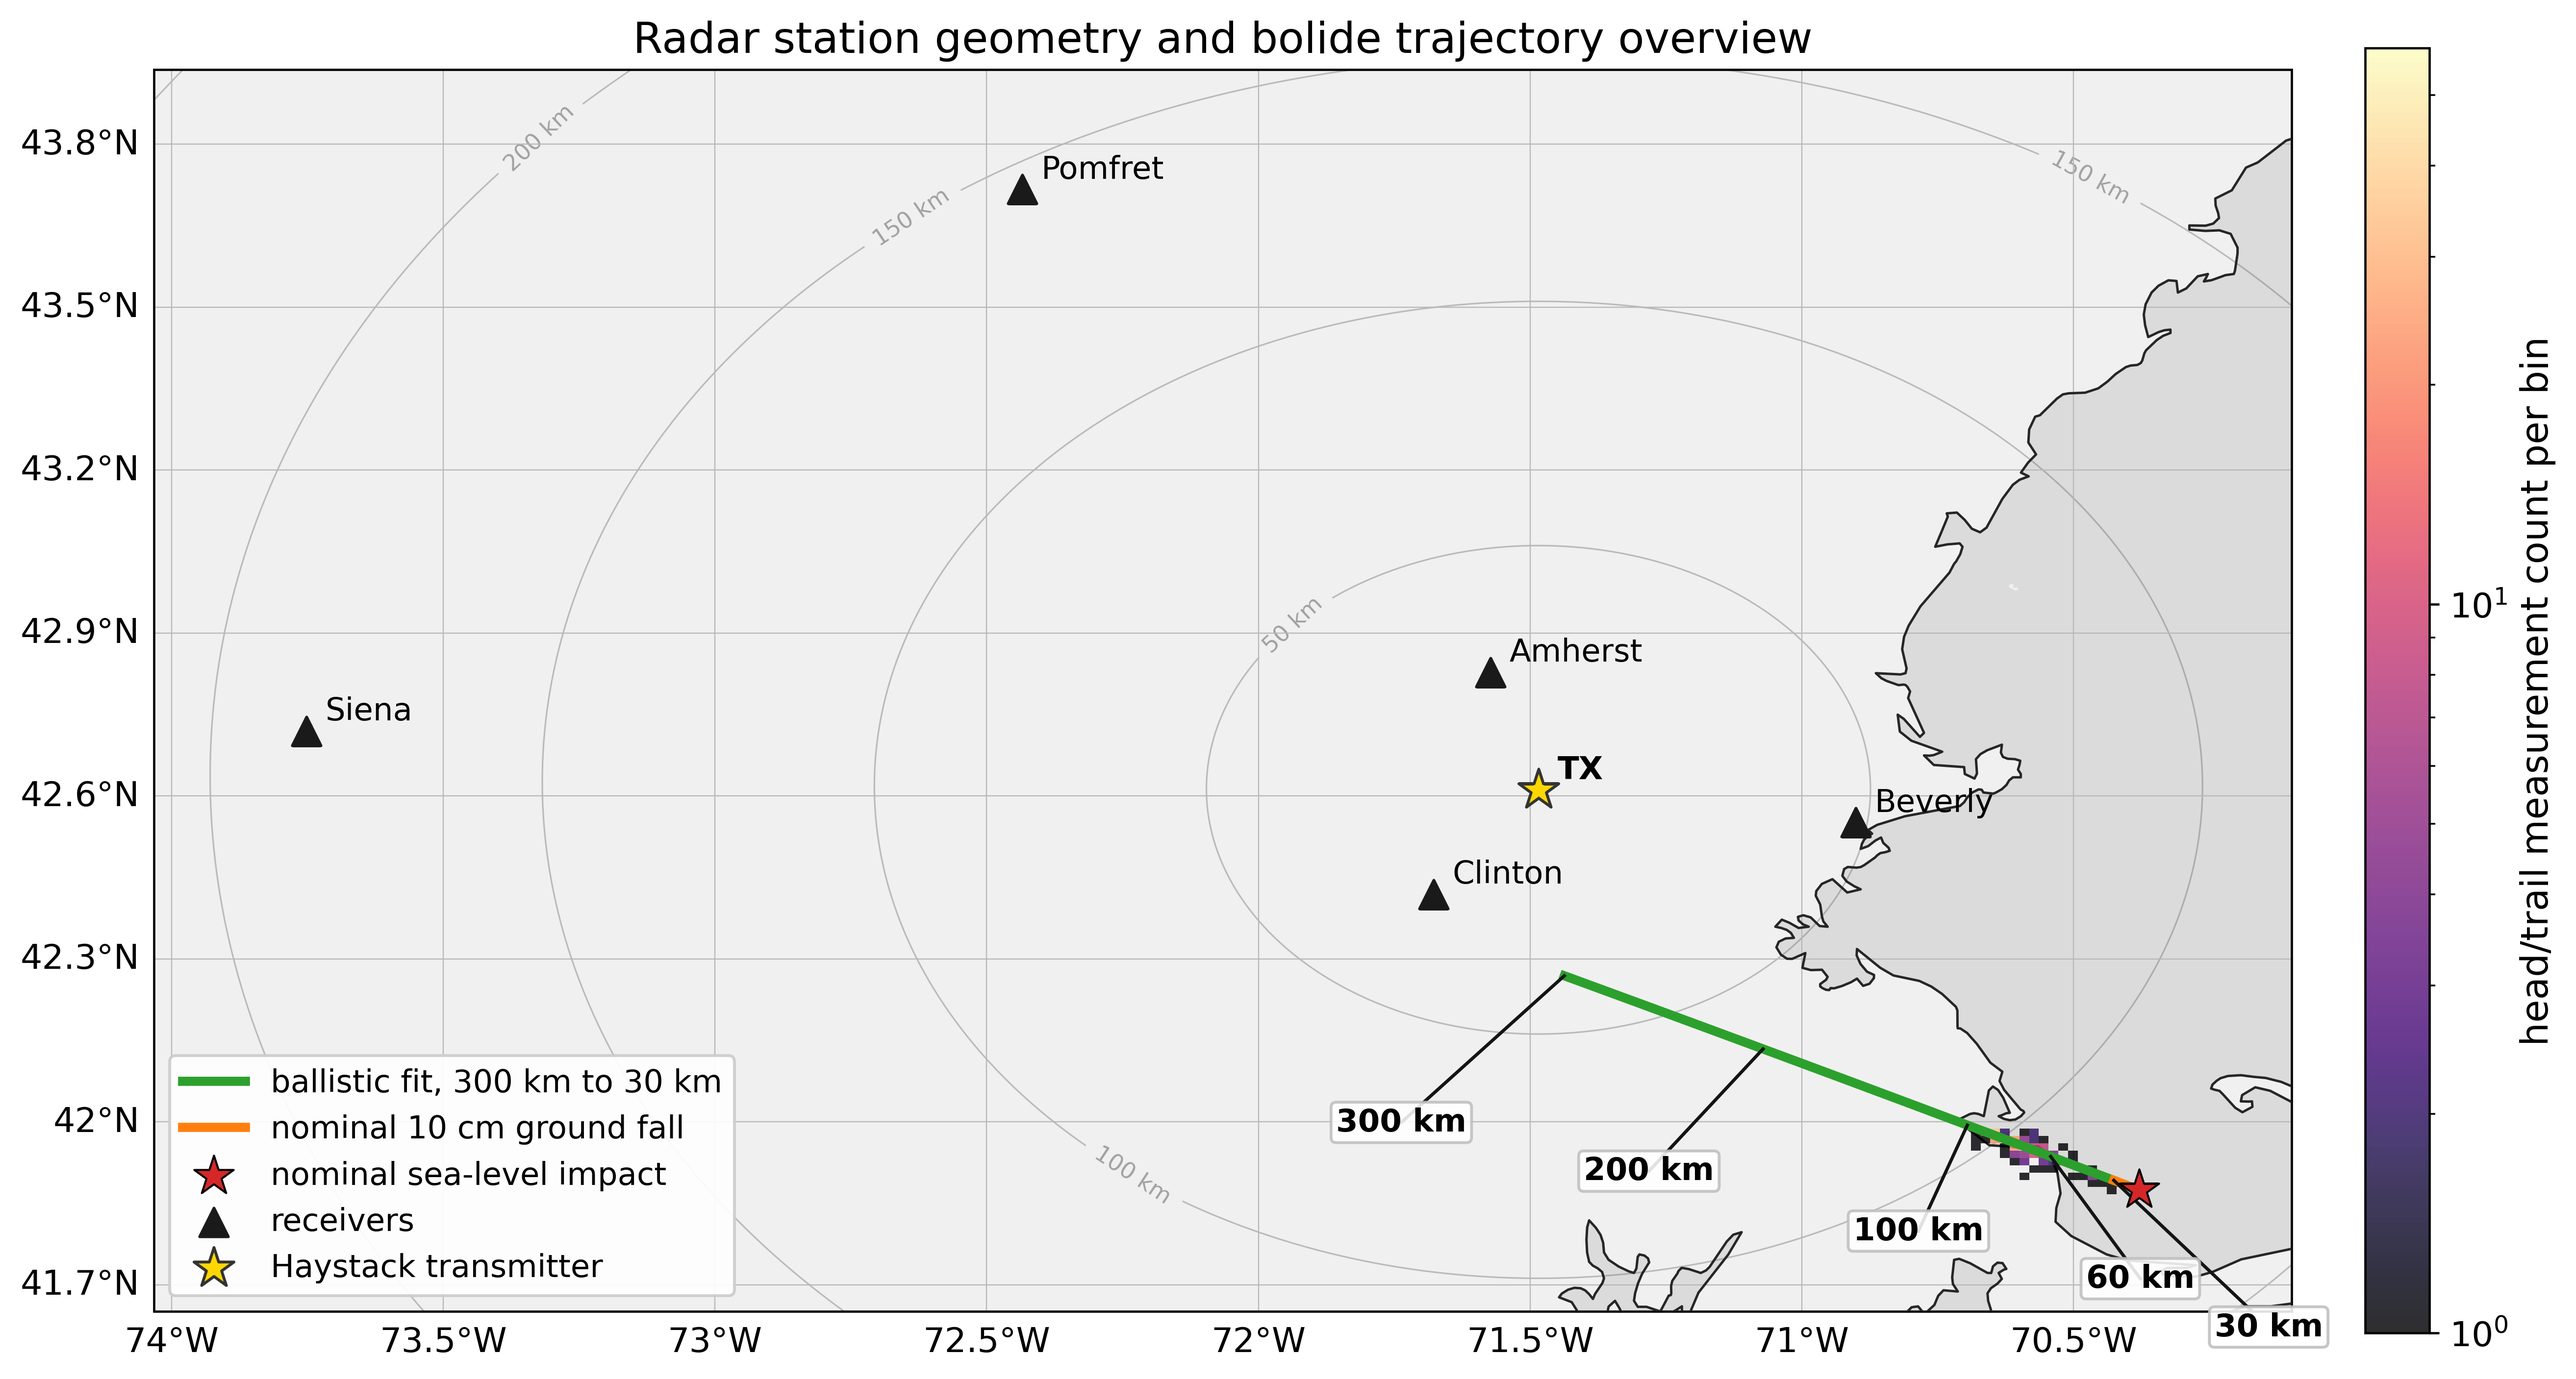
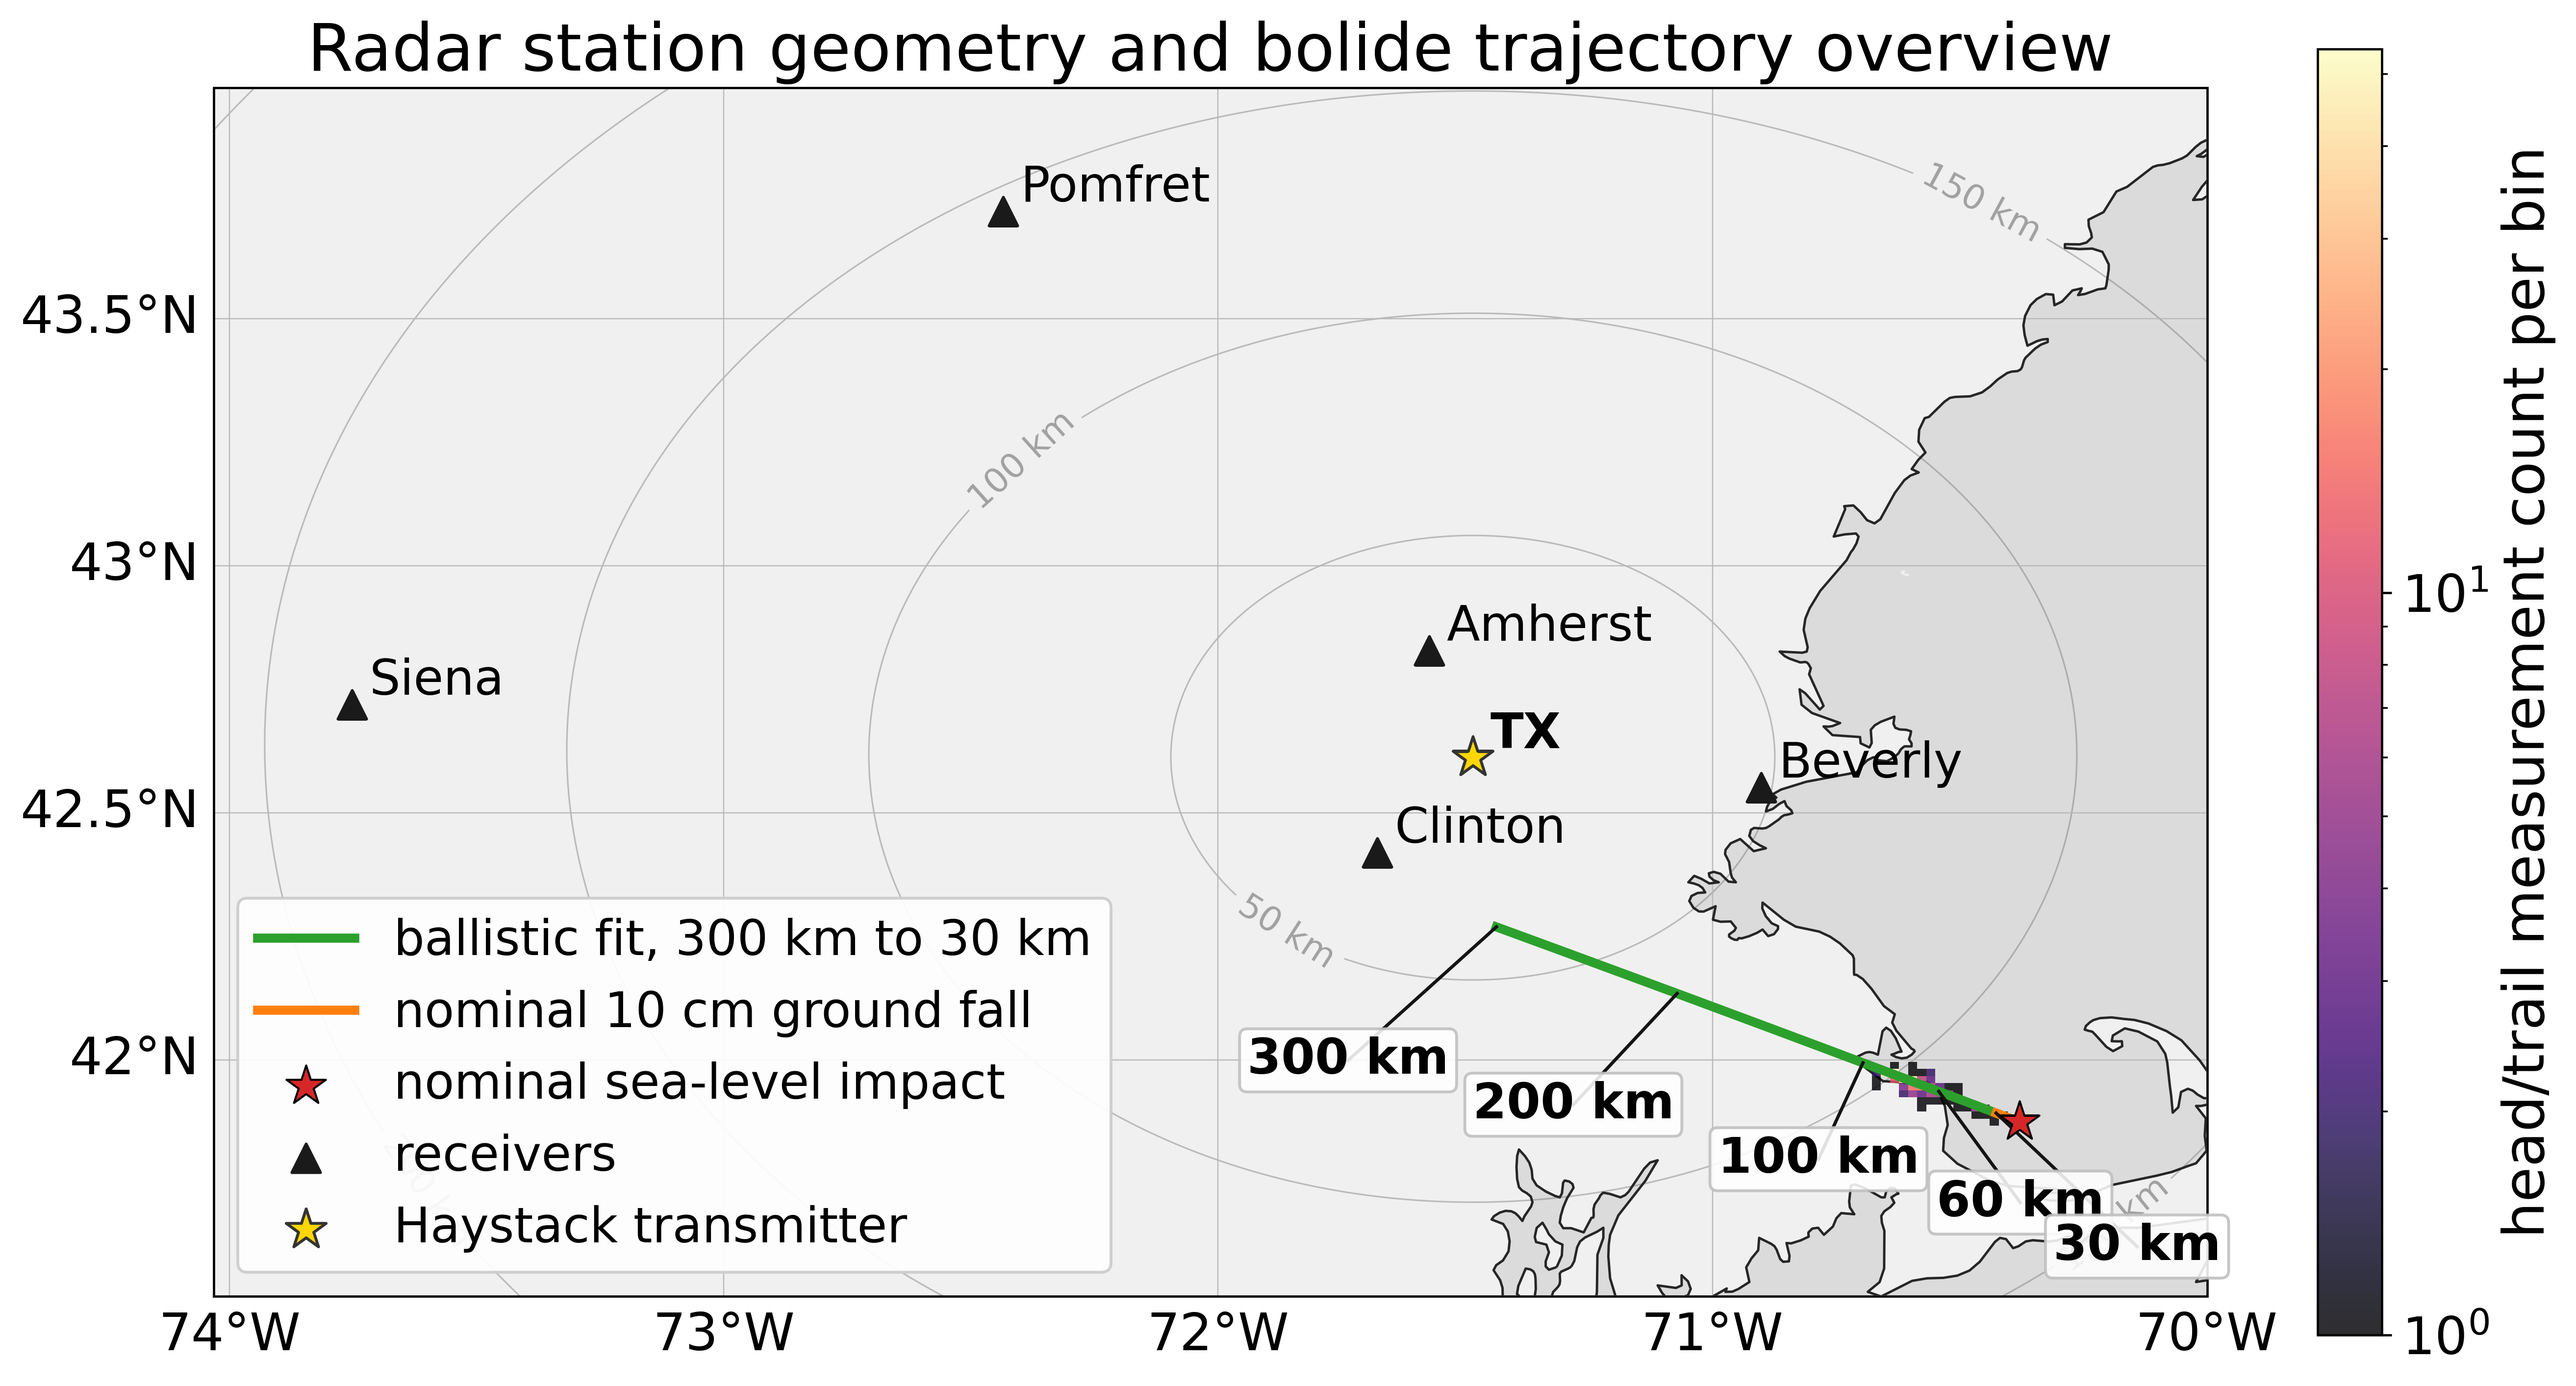
Increase station overview typography

diff --git a/fit_ballistic_head_trail.py b/fit_ballistic_head_trail.py
@@ -877,9 +877,9 @@ def plot_station_measurement_ballistic_overview(
     all_lat = np.r_[station_lats, ballistic_llh[:, 0], fragment_llh[:, 0], impact_llh[0], measurement_lat]
     extent = [
         float(np.nanmin(all_lon) - 0.28),
-        float(np.nanmax(all_lon) + 0.28),
-        float(np.nanmin(all_lat) - 0.22),
-        float(np.nanmax(all_lat) + 0.22),
+        float(np.nanmax(all_lon) + 0.38),
+        float(np.nanmin(all_lat) - 0.35),
+        float(np.nanmax(all_lat) + 0.25),
     ]
 
     data_crs = ccrs.PlateCarree() if ccrs is not None else None
@@ -893,13 +893,13 @@ def plot_station_measurement_ballistic_overview(
         gl = ax.gridlines(draw_labels=True, color="0.72", linewidth=0.4)
         gl.top_labels = False
         gl.right_labels = False
-        gl.xlabel_style = {"size": 12}
-        gl.ylabel_style = {"size": 12}
+        gl.xlabel_style = {"size": 18}
+        gl.ylabel_style = {"size": 18}
     else:
         ax.set_xlim(extent[0], extent[1])
         ax.set_ylim(extent[2], extent[3])
         ax.grid(True, color="0.72", linewidth=0.4)
-        ax.tick_params(labelsize=12)
+        ax.tick_params(labelsize=18)
 
     if tx_ref_lat is not None and tx_ref_lon is not None:
         contour_lon = np.linspace(extent[0], extent[1], 260)
@@ -924,7 +924,7 @@ def plot_station_measurement_ballistic_overview(
             transform=data_crs,
             zorder=1.5,
         )
-        contour_labels = ax.clabel(range_contours, fmt=lambda value: f"{int(value)} km", fontsize=8, inline=True)
+        contour_labels = ax.clabel(range_contours, fmt=lambda value: f"{int(value)} km", fontsize=12, inline=True)
         for text in contour_labels:
             text.set_alpha(0.45)
             text.set_zorder(1.6)
@@ -945,8 +945,8 @@ def plot_station_measurement_ballistic_overview(
     )
     cbar = fig.colorbar(mesh, ax=ax, shrink=0.76, pad=0.02)
     cbar.set_label("head/trail measurement count per bin")
-    cbar.ax.tick_params(labelsize=12)
-    cbar.ax.yaxis.label.set_size(13)
+    cbar.ax.tick_params(labelsize=18)
+    cbar.ax.yaxis.label.set_size(20)
 
     ax.plot(
         ballistic_llh[:, 1],
@@ -985,7 +985,7 @@ def plot_station_measurement_ballistic_overview(
             label_lon,
             label_lat,
             f"{label_km} km",
-            fontsize=11,
+            fontsize=17,
             weight="bold",
             ha="center",
             va="center",
@@ -1031,15 +1031,15 @@ def plot_station_measurement_ballistic_overview(
             label=None if receiver_labeled else "receivers",
         )
         receiver_labeled = True
-        ax.text(rx_lon + 0.035, rx_lat + 0.02, short_station_name(station), fontsize=11, transform=data_crs, zorder=9, clip_on=True)
+        ax.text(rx_lon + 0.035, rx_lat + 0.02, short_station_name(station), fontsize=17, transform=data_crs, zorder=9, clip_on=True)
         tx_key = (round(float(tx_lat), 5), round(float(tx_lon), 5))
         if tx_key not in tx_seen:
             ax.scatter(tx_lon, tx_lat, marker="*", s=215, color="gold", edgecolor="0.2", transform=data_crs, zorder=9, label="Haystack transmitter")
-            ax.text(tx_lon + 0.035, tx_lat + 0.02, "TX", fontsize=11, weight="bold", transform=data_crs, zorder=9, clip_on=True)
+            ax.text(tx_lon + 0.035, tx_lat + 0.02, "TX", fontsize=17, weight="bold", transform=data_crs, zorder=9, clip_on=True)
             tx_seen.add(tx_key)
 
-    ax.set_title("Radar station geometry and bolide trajectory overview", fontsize=15)
-    ax.legend(loc="lower left", fontsize=11, framealpha=0.92)
+    ax.set_title("Radar station geometry and bolide trajectory overview", fontsize=23)
+    ax.legend(loc="lower left", fontsize=17, framealpha=0.92)
     fig.savefig(out, dpi=420, bbox_inches="tight")
     plt.close(fig)
 
